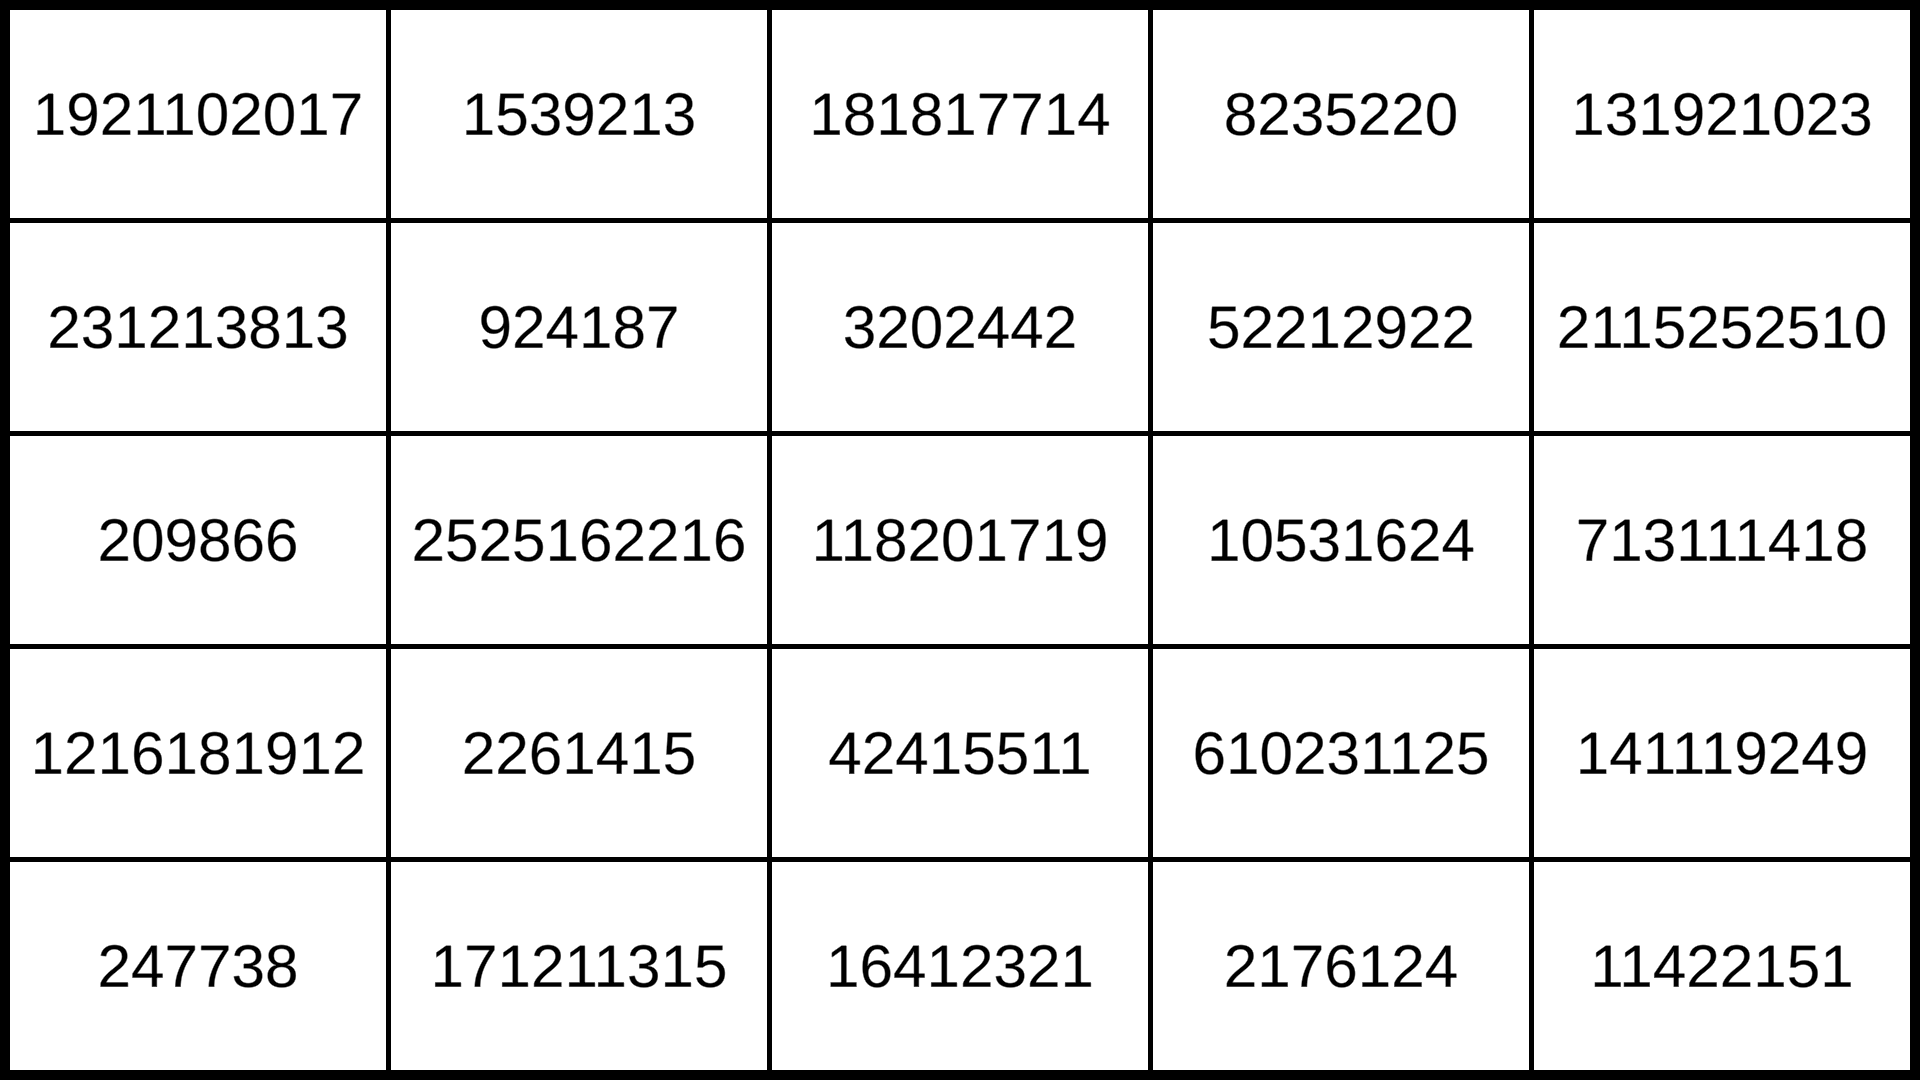
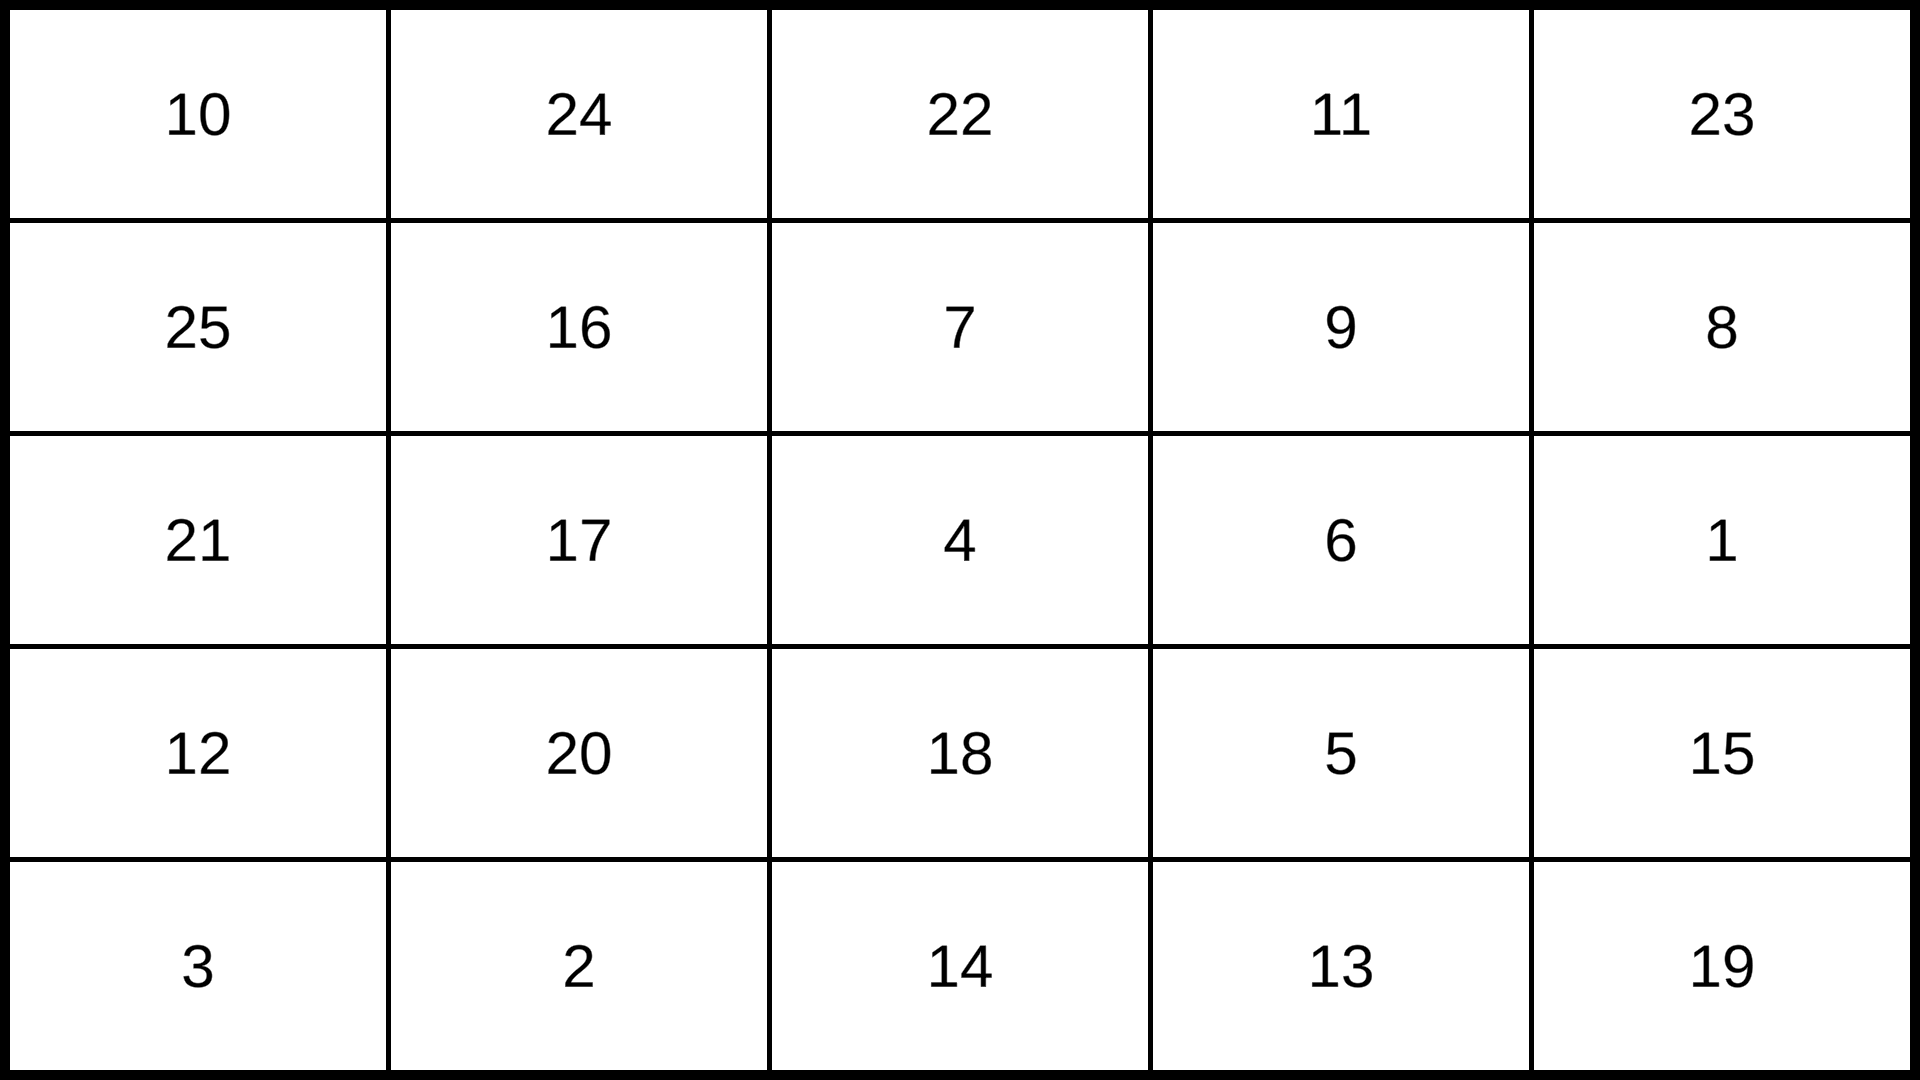
Random numbers
- The board will now be filled with random numbers

diff --git a/Assets/Scripts/BingoBoardManager.cs b/Assets/Scripts/BingoBoardManager.cs
@@ -72,9 +72,7 @@ public class BingoBoardManager : MonoBehaviour
 
         List<string> temp = new List<string>();
         for (int j = 0; j < cellList.Count; j++)
-        {
             temp.Add("");
-        }
 
         for (int i = 0; i < printAmount; i++)
         {
@@ -88,37 +86,44 @@ public class BingoBoardManager : MonoBehaviour
         //----- Fill the boardList with strings from correct List -----//
 
         //Delegate words randomly
-        for (int i = 0; i < boardList.Count; i++)
+        for (int i = 0; i < printAmount; i++)
         {
-            for (int k = 0; k < boardList[i].Count;)
+            //Make a new List<string>
+            List<string> tempString = new List<string>();
+            for (int j = 0; j < cellList.Count; j++)
+                tempString.Add("");
+
+            //Calculate random indexes to use 
+            for (int j = 0; j < cellList.Count;)
             {
                 int indexCheck = Random.Range(0, wordDatabase.wordDatabaseList[boardThemeIndex].bingoTheme.Count);
+
+                //Check difficulty to see if any more can be included
+
+
+
+
 
                 if (!wordDatabase.wordDatabaseList[boardThemeIndex].bingoTheme[indexCheck].selected)
                 {
                     wordDatabase.wordDatabaseList[boardThemeIndex].bingoTheme[indexCheck].selected = true;
 
                     //print("indexCheck A: i: " + i + " | k: " + k + " = " + (indexCheck + 1));
-                    boardList[i][k] += wordDatabase.wordDatabaseList[boardThemeIndex].bingoTheme[indexCheck].word;
+
+                    tempString[j] = wordDatabase.wordDatabaseList[boardThemeIndex].bingoTheme[indexCheck].word;
                     //print("indexCheck B: i: " + i + " | k: " + k + " = " + boardList[i][k]);
 
-                    k++;
+                    j++;
                 }
             }
+
+            //Transfer data to boardList
+            boardList[i] = tempString;
 
             //Reset selected words to false
             for (int j = 0; j < wordDatabase.wordDatabaseList[boardThemeIndex].bingoTheme.Count; j++)
             {
                 wordDatabase.wordDatabaseList[boardThemeIndex].bingoTheme[j].selected = false;
-            }
-        }
-
-        //Temp
-        for (int i = 0; i < boardList.Count; i++)
-        {
-            for (int k = 0; k < boardList[i].Count; k++)
-            {
-                //print("Delegate words | i: " + i + " | j: " + k + " = " + boardList[i][k]);
             }
         }
 
@@ -143,7 +148,7 @@ public class BingoBoardManager : MonoBehaviour
                 cellList[j].GetComponentInChildren<TextMeshProUGUI>().text = boardList[i][j];
             }
 
-            yield return new WaitForSeconds(0.31f);
+            yield return new WaitForSeconds(0.01f);
 
             //Print displaying board
             if (printAmount > 0 && boardThemeName != "")
@@ -151,7 +156,7 @@ public class BingoBoardManager : MonoBehaviour
                 ScreenCapture.CaptureScreenshot(boardThemeName + " - BingoSheet " + i + ".png", 1);
             }
 
-            yield return new WaitForSeconds(0.31f);
+            yield return new WaitForSeconds(0.01f);
         }
         
         bingoMenu.SetActive(false);
